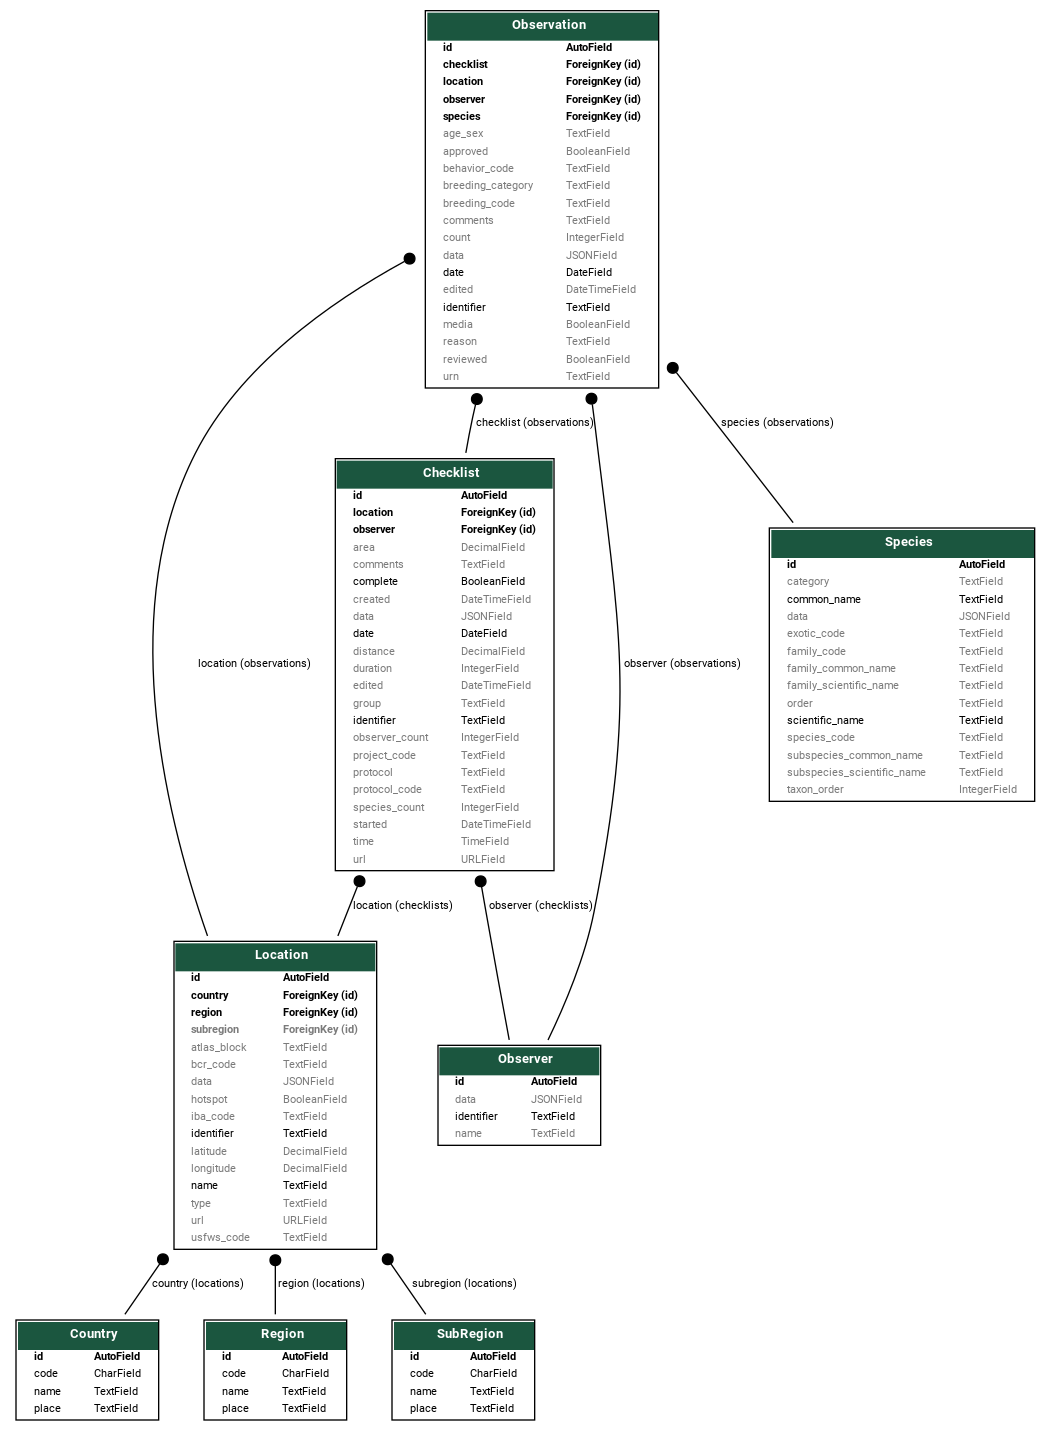
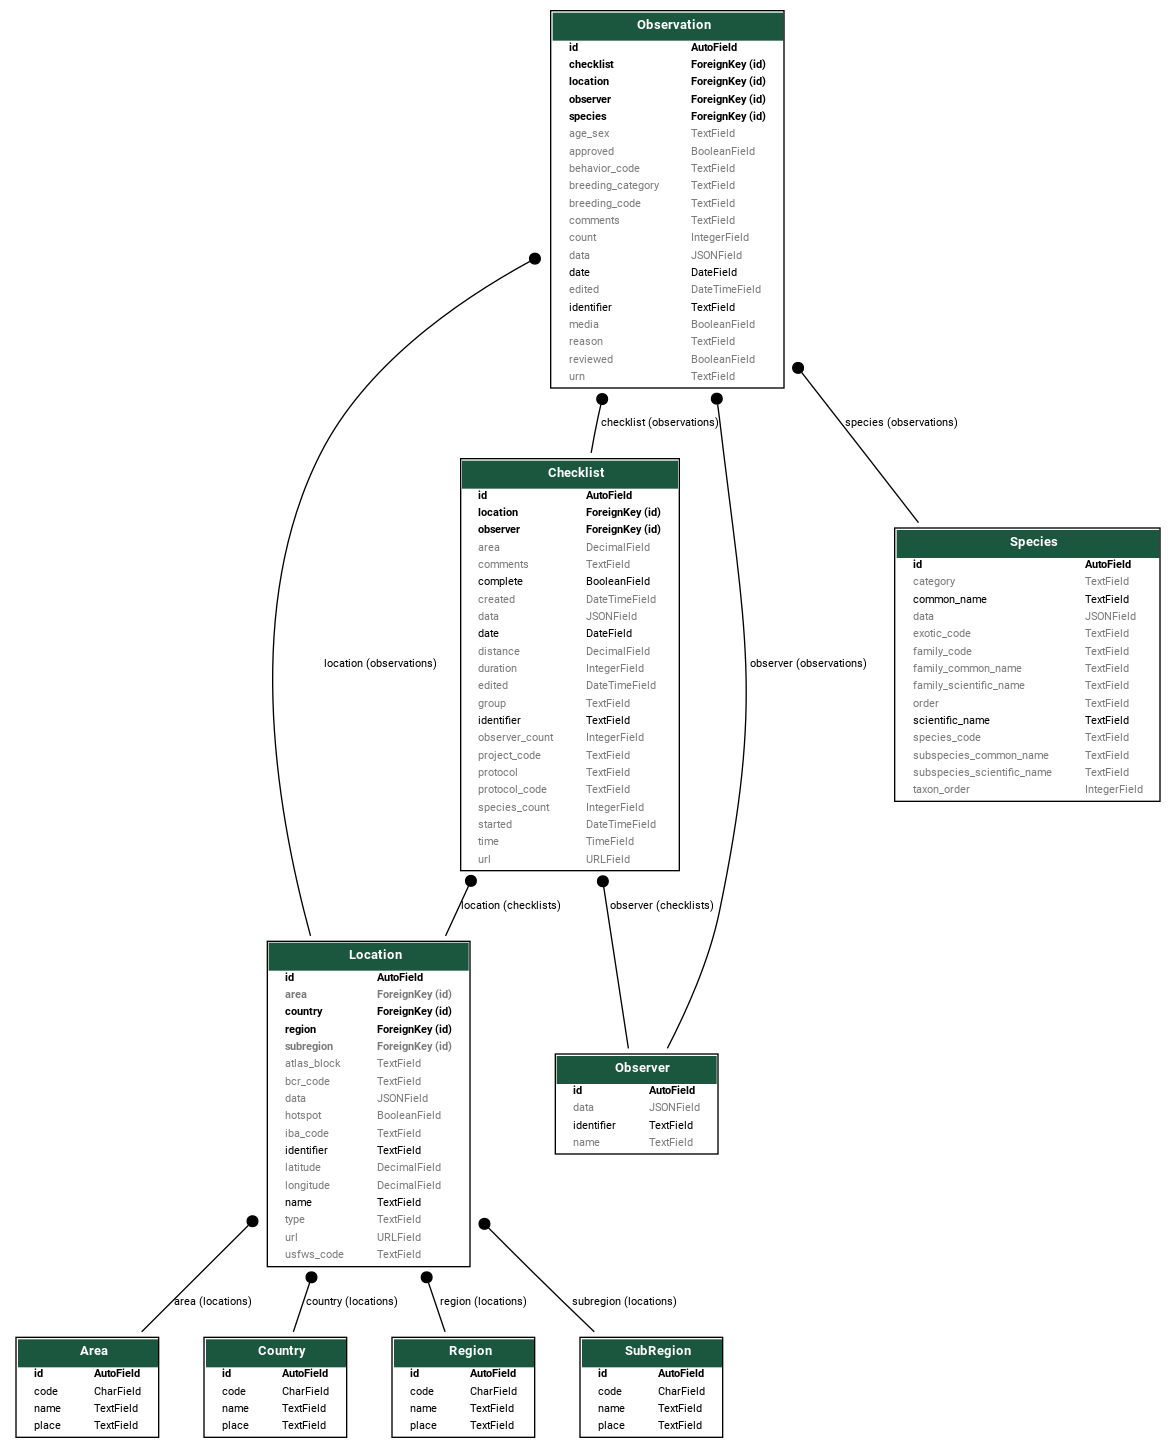
feat: Add Area model for defining groups of Locations

diff --git a/src/ebird/checklists/migrations/0015_add_area.py b/src/ebird/checklists/migrations/0015_add_area.py
@@ -1,0 +1,67 @@
+# Generated by Django 5.1.7 on 2025-03-20 19:57
+
+import django.db.models.deletion
+from django.db import migrations, models
+
+
+class Migration(migrations.Migration):
+
+    dependencies = [
+        ("checklists", "0014_remove_location_county_code"),
+    ]
+
+    operations = [
+        migrations.CreateModel(
+            name="Area",
+            fields=[
+                (
+                    "id",
+                    models.AutoField(
+                        auto_created=True,
+                        primary_key=True,
+                        serialize=False,
+                        verbose_name="ID",
+                    ),
+                ),
+                (
+                    "code",
+                    models.CharField(
+                        db_index=True,
+                        help_text="The code used to identify the area.",
+                        max_length=6,
+                        verbose_name="code",
+                    ),
+                ),
+                (
+                    "name",
+                    models.TextField(
+                        help_text="The name of the area.", verbose_name="name"
+                    ),
+                ),
+                (
+                    "place",
+                    models.TextField(
+                        help_text="The hierarchical name of the area.",
+                        verbose_name="place",
+                    ),
+                ),
+            ],
+            options={
+                "verbose_name": "area",
+                "verbose_name_plural": "areas",
+            },
+        ),
+        migrations.AddField(
+            model_name="location",
+            name="area",
+            field=models.ForeignKey(
+                blank=True,
+                help_text="The area for the location.",
+                null=True,
+                on_delete=django.db.models.deletion.PROTECT,
+                related_name="locations",
+                to="checklists.area",
+                verbose_name="area",
+            ),
+        ),
+    ]

diff --git a/src/ebird/checklists/models/area.py b/src/ebird/checklists/models/area.py
@@ -1,0 +1,28 @@
+# pyright: reportArgumentType=false
+
+from django.db import models
+from django.utils.translation import gettext_lazy as _
+
+
+class Area(models.Model):
+    class Meta:
+        verbose_name = _("area")
+        verbose_name_plural = _("areas")
+
+    code = models.CharField(
+        max_length=6,
+        db_index=True,
+        verbose_name=_("code"),
+        help_text=_("The code used to identify the area."),
+    )
+
+    name = models.TextField(
+        verbose_name=_("name"), help_text=_("The name of the area.")
+    )
+
+    place = models.TextField(
+        verbose_name=_("place"), help_text=_("The hierarchical name of the area.")
+    )
+
+    def __str__(self):
+        return str(self.name)

diff --git a/src/ebird/checklists/models/location.py b/src/ebird/checklists/models/location.py
@@ -82,6 +82,16 @@ class Location(models.Model):
         help_text=_("The district for the location."),
     )
 
+    area = models.ForeignKey(
+        "checklists.Area",
+        blank=True,
+        null=True,
+        related_name="locations",
+        on_delete=models.PROTECT,
+        verbose_name=_("area"),
+        help_text=_("The area for the location."),
+    )
+
     iba_code = models.TextField(
         blank=True,
         verbose_name=_("IBA code"),

diff --git a/src/ebird/checklists/admin.py b/src/ebird/checklists/admin.py
@@ -122,6 +122,13 @@ class DistrictAdmin(admin.ModelAdmin):
     readonly_fields = ("code",)
 
 
+@admin.register(models.Area)
+class AreaAdmin(admin.ModelAdmin):
+    list_display = ("code", "name")
+    ordering = ("code",)
+    readonly_fields = ("code",)
+
+
 @admin.register(models.Location)
 class LocationAdmin(admin.ModelAdmin):
     list_display = ("identifier", "name", "district", "region", "country")

diff --git a/src/ebird/checklists/models/__init__.py b/src/ebird/checklists/models/__init__.py
@@ -1,3 +1,4 @@
+from .area import Area
 from .checklist import Checklist
 from .country import Country
 from .location import Location
@@ -8,6 +9,7 @@ from .species import Species
 from .district import District
 
 __all__ = (
+    "Area",
     "Checklist",
     "Country",
     "District",

diff --git a/CHANGELOG.rst b/CHANGELOG.rst
@@ -10,6 +10,7 @@ Latest
 * Create separate Country model from Location.
 * Create separate Region (state) model from Location.
 * Create separate SubRegion (county) model from Location.
+* Add Area model for defining groups of Locations.
 
 1.0.3 (2025-03-20)
 ------------------
